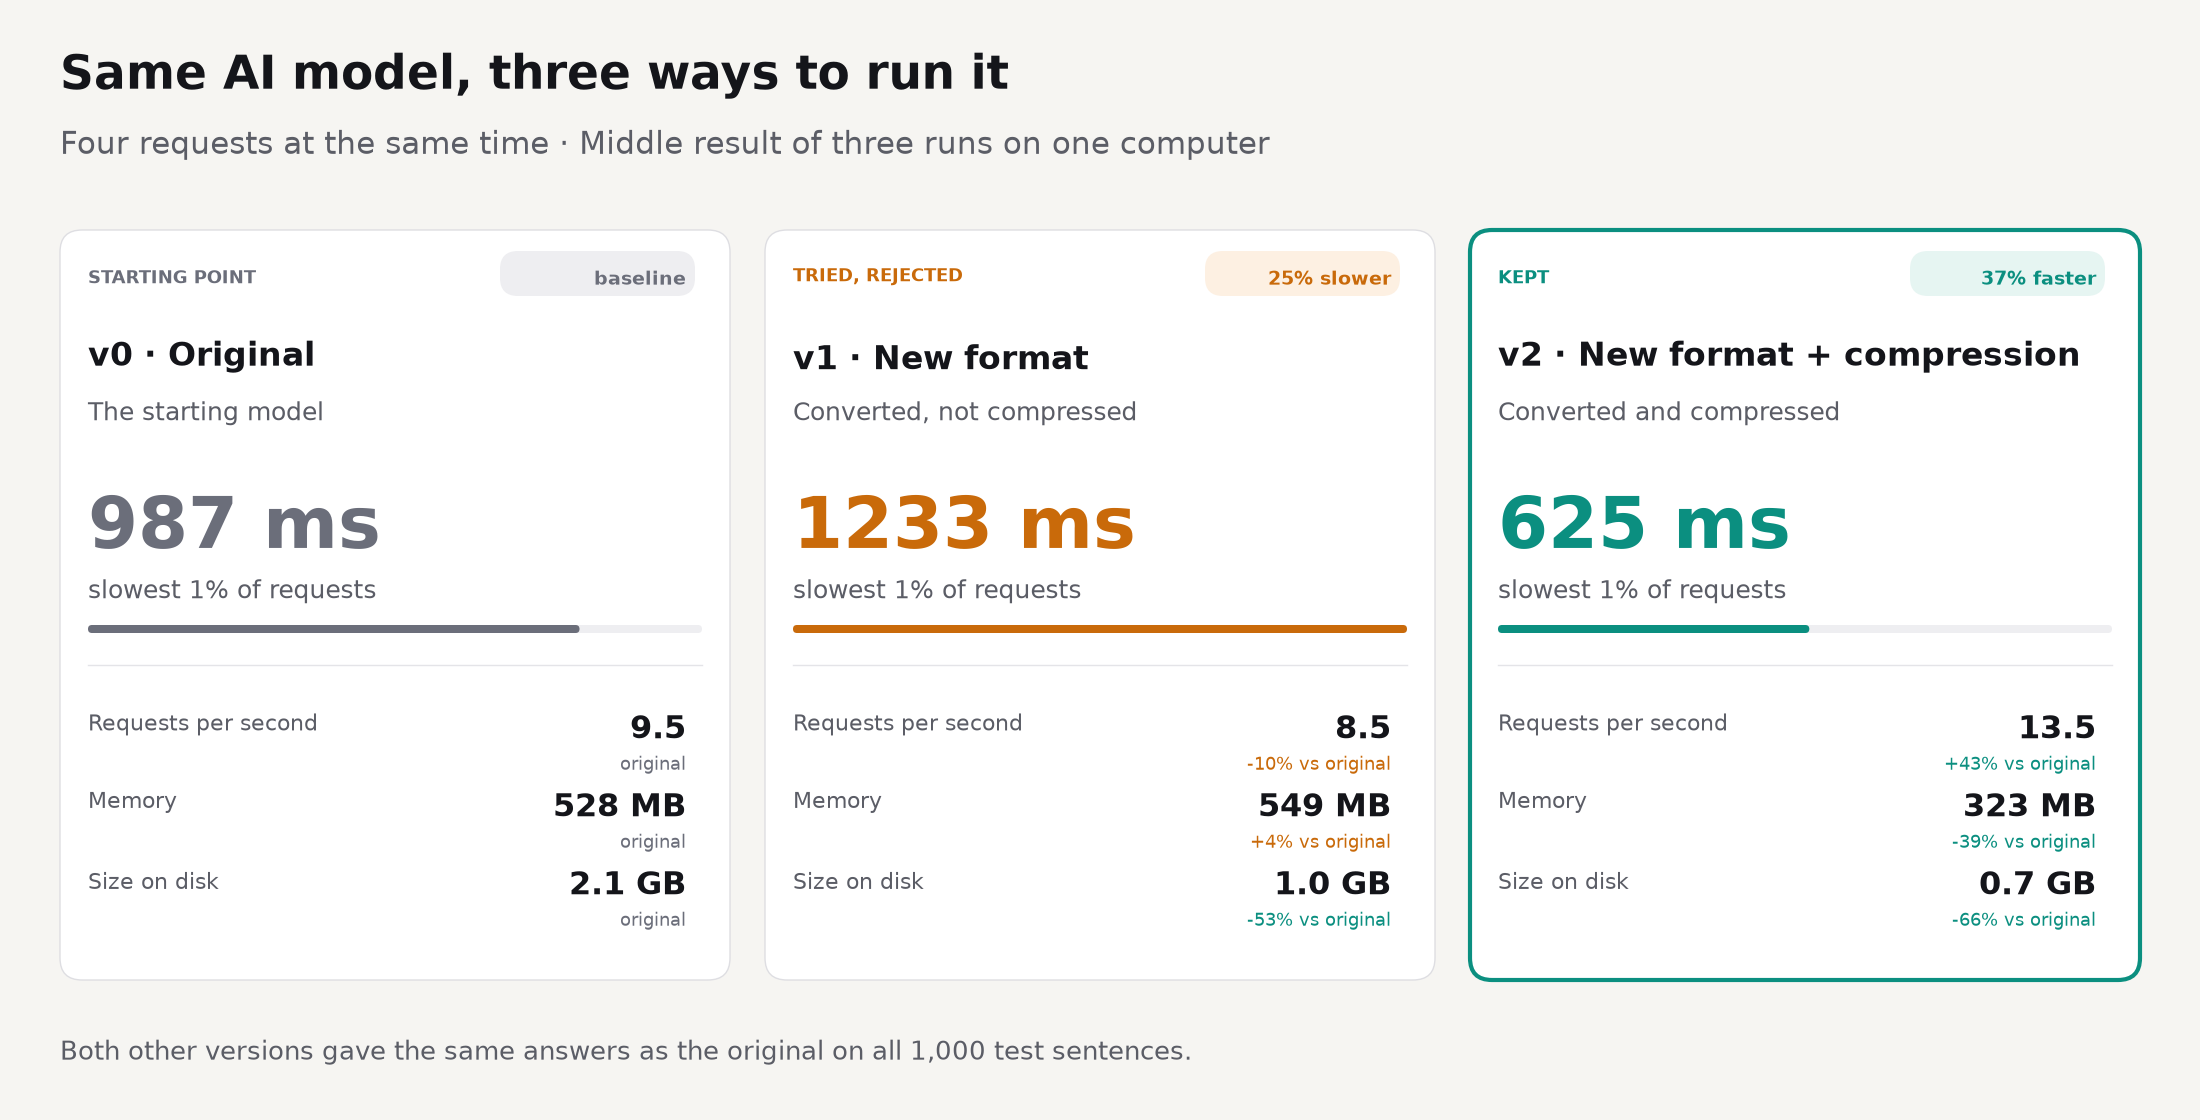
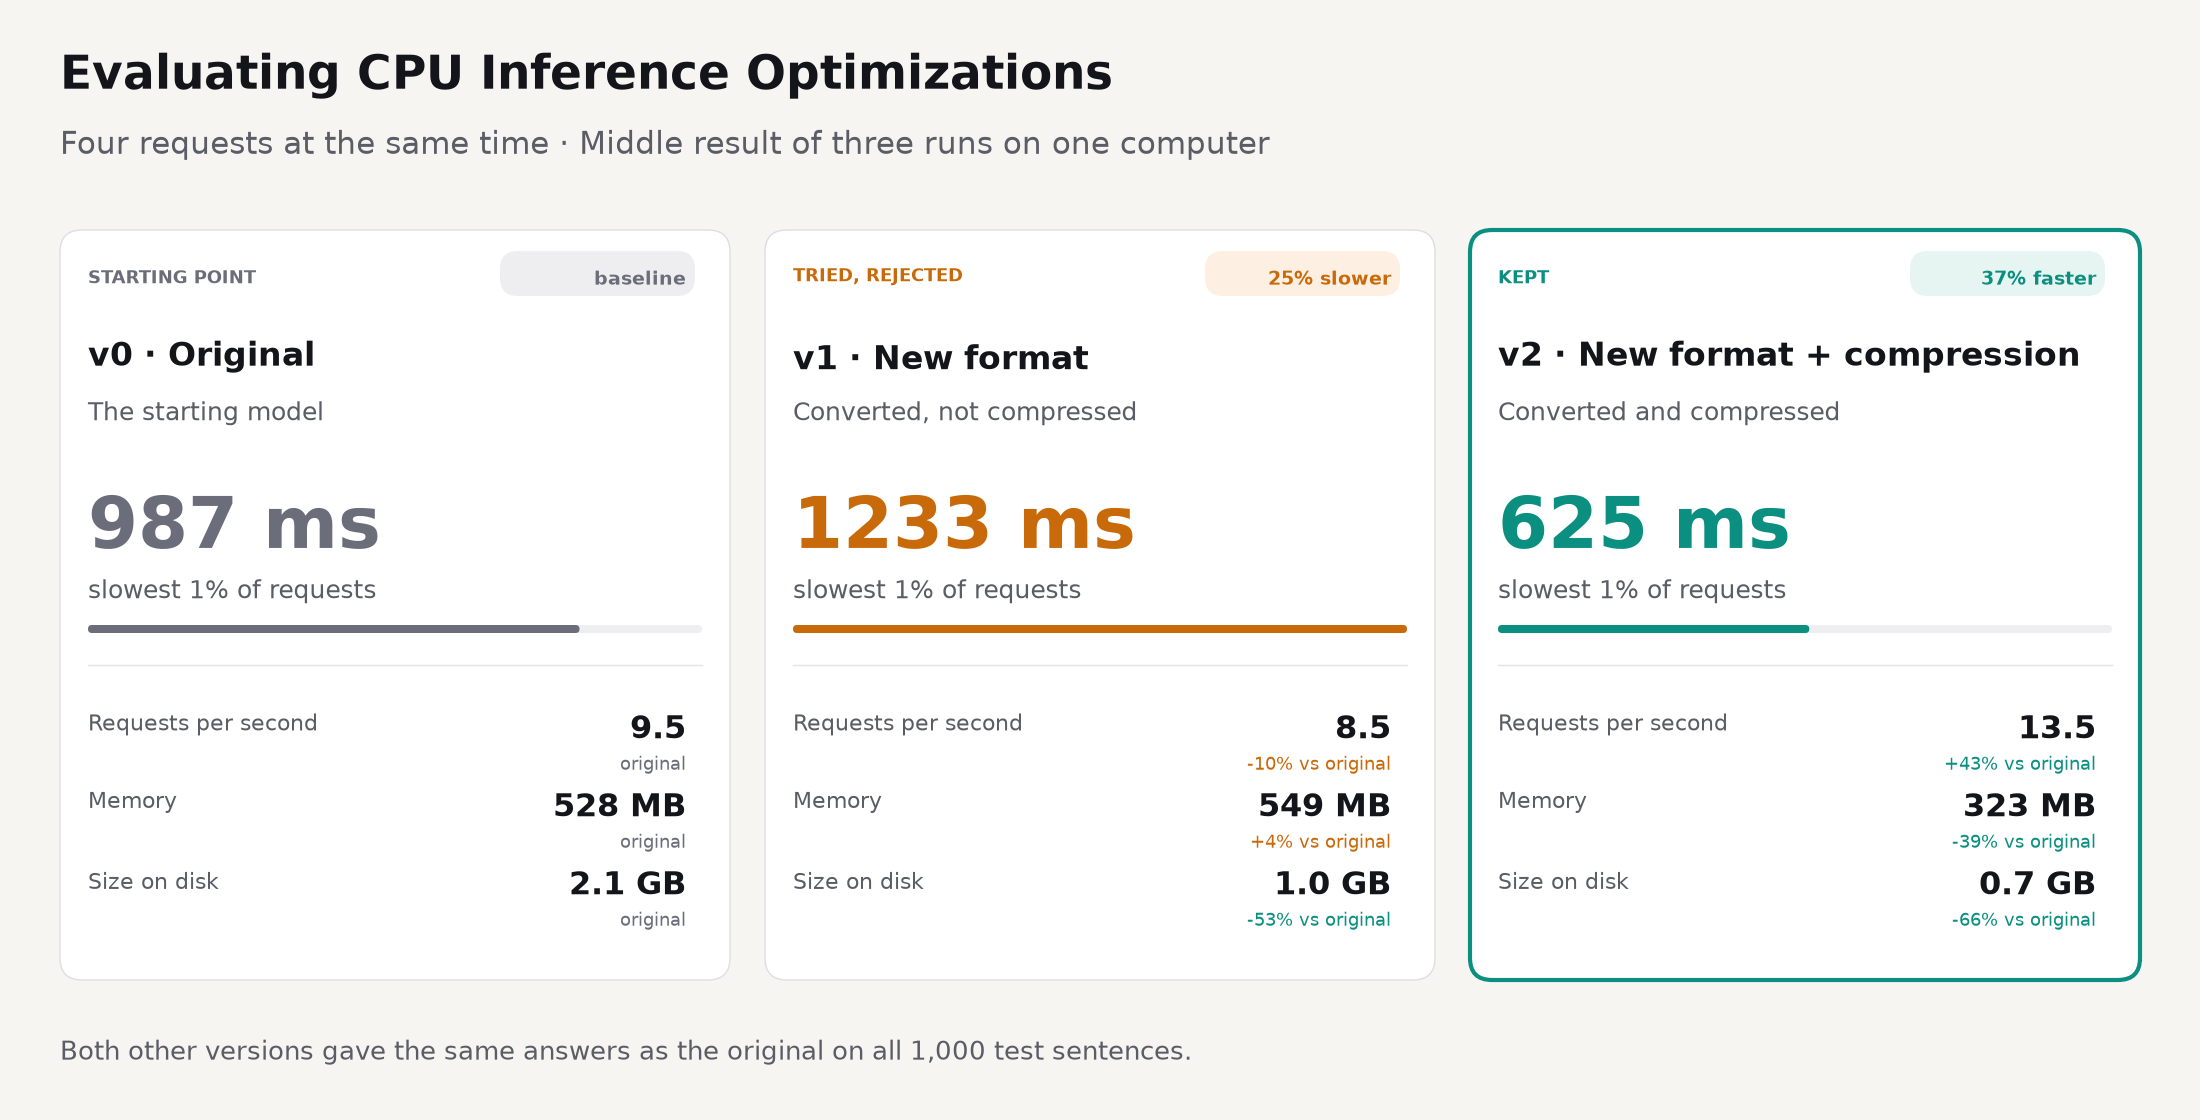
docs: update portfolio result-card headline

Changed region(s): [[0.0309, 0.0312, 0.5255, 0.0938]]

diff --git a/bench/report.py b/bench/report.py
@@ -509,7 +509,7 @@ def portfolio_layout(data):
                                           region=region, color=color, weight=weight, align=align))
     d1, d3 = GRAPHICS
     header = [50, 20, 2150, 195]
-    text(d1, "title", "Same AI model, three ways to run it", 60, 45, 34, header, weight="bold")
+    text(d1, "title", "Evaluating CPU Inference Optimizations", 60, 45, 34, header, weight="bold")
     text(d1, "subtitle", "Four requests at the same time · Middle result of three runs on one computer",
          60, 125, 22, header, color="secondary")
     for i, row in enumerate(data["workloads"][0]["versions"]):

diff --git a/README.md b/README.md
@@ -2,7 +2,7 @@
 
 I made a sentence-reading model respond faster on an ordinary computer chip without a graphics card, then measured each change—including one that made it worse.
 
-![Same AI model, three ways to run it](docs/result-cards.png)
+![Evaluating CPU Inference Optimizations](docs/result-cards.png)
 
 ```mermaid
 flowchart TD
